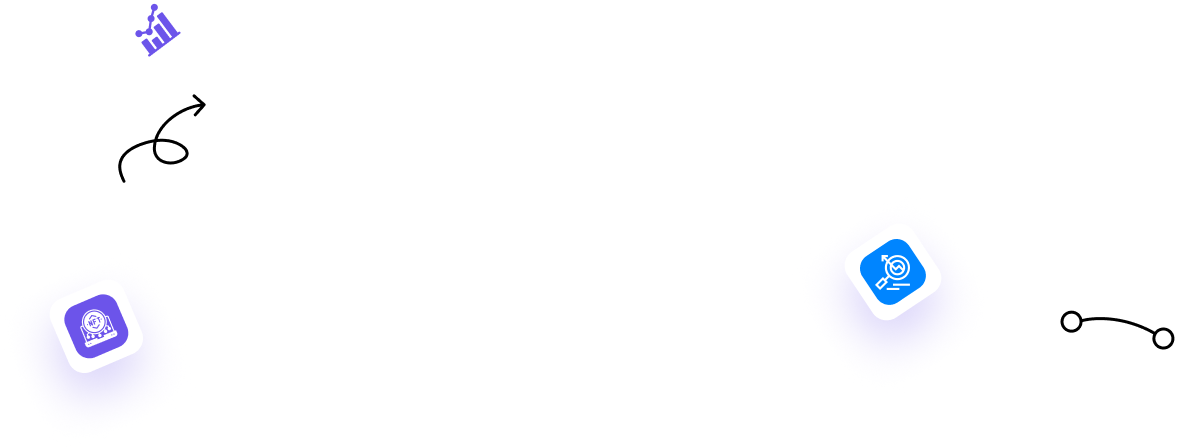
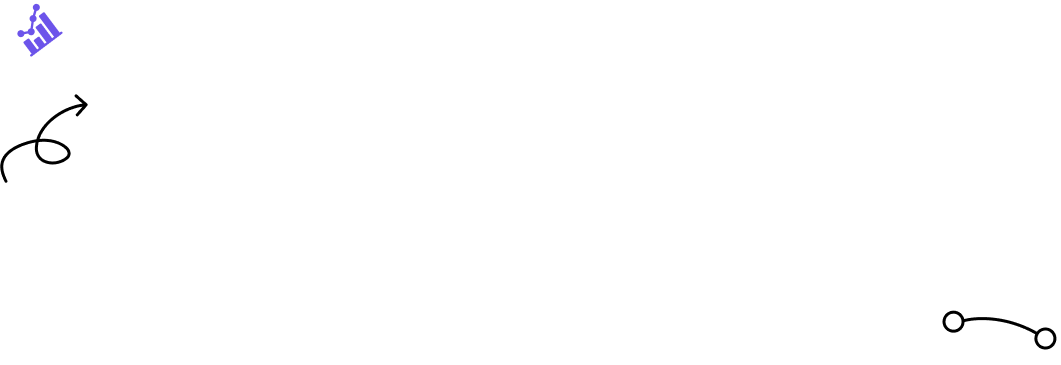
animation add some page

diff --git a/styles/section/_global-style.scss b/styles/section/_global-style.scss
@@ -358,6 +358,37 @@
         display: grid;
         justify-content: center;
         align-items: center;
+        position: relative;
+    }
+    img.sm-an1 {
+        position: absolute;
+        left: 30%;
+        bottom: -10%;
+        width: auto !important;
+        animation: sm-an1 1s linear 2s infinite alternate;
+    }
+    @keyframes sm-an1 {
+        0% {
+            transform: translateY(0);
+        }
+        100% {
+            transform: translateY(10px);
+        }
+    }
+    img.sm-an2 {
+        width: auto !important;
+        position: absolute;
+        right: 10%;
+        top: 20%;
+        animation: sm-an2 1s linear 2s infinite alternate;
+    }
+    @keyframes sm-an2 {
+        0% {
+            transform: translateX(0);
+        }
+        100% {
+            transform: translateX(10px);
+        }
     }
     .hero-img img {
         width: 100%;
@@ -462,13 +493,9 @@
         gap: 24px;
     }
     .hero-img {
-        background-size: cover;
-        display: flex;
         width: 100%;
         height: 100%;
-        max-width: 779px;
         position: relative;
-        justify-self: flex-end;
     }
     .hero-bg {
         width: 100%;
@@ -609,34 +636,60 @@
     .experts div img:nth-child(3) {
         animation: appear3 1s;
     }
-    @keyframes appear1 {
+    img.contract1 {
+        position: absolute;
+        top: 11%;
+        left: 8%;
+        animation: contract1 1s linear 2s infinite alternate;
+    }
+    @keyframes contract1 {
         0% {
-            opacity: 0;
+            transform: rotate(0deg);
         }
         100% {
-            opacity: 1;
+            transform: rotate(75deg);
         }
     }
-    @keyframes appear2 {
+    img.contract2 {
+        position: absolute;
+        top: 5%;
+        left: 36%;
+        animation: contract2 1s linear 2s infinite alternate;
+    }
+    @keyframes contract2 {
         0% {
-            opacity: 0;
-        }
-        20% {
-            opacity: 0;
+            transform: translateY(0);
         }
         100% {
-            opacity: 1;
+            transform: translateY(20px);
         }
     }
-    @keyframes appear3 {
+    img.contract3 {
+        right: 3%;
+        position: absolute;
+        top: 7%;
+        animation: contract3 1s linear 2s infinite alternate;
+    }
+    @keyframes contract3 {
         0% {
-            opacity: 0;
-        }
-        40% {
-            opacity: 0;
+            transform: translateY(20px);
         }
         100% {
-            opacity: 1;
+            transform: translateY(0px);
+        }
+    }
+    img.contract4 {
+        position: absolute;
+        top: 60%;
+        left: 22%;
+        animation: contract4 1s linear 2s infinite alternate;
+    }
+    @keyframes contract4 {
+        0% {
+            transform: translateY(20px);
+        }
+        100% {
+            transform: translateY(0px);
         }
     }
     .hero-content {
@@ -1270,41 +1323,44 @@
         bottom: 0px;
         animation: decor-4 1s;
     }
-    .decor-5 {
-        position: absolute;
-        bottom: 0px;
-        right: 0px;
-        width: 100%;
-        animation: decor-5 1s;
-    }
-    .decor-6 {
-        position: absolute;
-        width: 83px;
-        height: 83px;
-        bottom: 80px;
-        left: -150px;
-        animation: decor-6 1.5s ease 0s infinite;
-    }
+    // .decor-5 {
+    //     position: absolute;
+    //     bottom: 0px;
+    //     right: 0px;
+    //     width: 100%;
+    //     animation: decor-5 1s;
+    // }
+    // .decor-6 {
+    //     position: absolute;
+    //     width: 83px;
+    //     height: 83px;
+    //     bottom: 80px;
+    //     left: -150px;
+    //     animation: decor-6 1.5s ease 0s infinite;
+    // }
     .hero-img img {
         width: 100%;
     }
-    @keyframes decor-4 {
-        0% {
-            opacity: 0;
-        }
-        100% {
-            opacity: 2;
-        }
+    img.hero-1 {
+        position: absolute;
+        bottom: 14%;
+        left: 15%;
+        width: 150px !important;
+        animation: decor-6 1.5s ease 0s infinite;
+    }
+    img.hero-2 {
+        position: absolute;
+        right: 4%;
+        width: 150px !important;
+        top: 30%;
+        animation: decor-5 1s linear 2s infinite alternate;
     }
     @keyframes decor-5 {
         0% {
-            opacity: 0;
-        }
-        30% {
-            opacity: 0;
+            transform: translateY(20px);
         }
         100% {
-            opacity: 2;
+            transform: translateY(0px);
         }
     }
     @keyframes decor-6 {
@@ -1436,10 +1492,6 @@
         top: 70%;
     }
     .decor-balls img:nth-child(2) {
-        left: 55%;
-        top: 20%;
-    }
-    .decor-balls img:nth-child(3) {
         right: 0px;
     }
     .hero-content {
@@ -1517,13 +1569,14 @@
     .charts-container {
         position: absolute;
         display: flex;
+        grid-gap: 13px;
         gap: 13px;
         padding: 23px 27px;
         background: #ffffff;
-        box-shadow: 0px 11px 39px rgba(0, 0, 0, 0.07);
+        box-shadow: 0px 11px 39px rgb(0 0 0 / 7%);
         border-radius: 17px;
-        right: 20%;
-        margin-top: -130px;
+        right: 5%;
+        top: 25%;
     }
     .chart {
         background: #eeeeee;
@@ -1593,15 +1646,25 @@
     }
     .decor-4 {
         position: absolute;
-        margin-top: 200px;
-        margin-left: 52px;
+        margin-left: -7%;
+        bottom: -2%;
+        animation: tk 1s linear 2s infinite alternate;
+        transition: 0.3s;
+    }
+    @keyframes tk {
+        0% {
+            transform: translateY(0);
+        }
+        100% {
+            transform: translateY(20px);
+        }
     }
     h1 {
         font-family: "Urbanist";
         font-style: normal;
         font-weight: 800;
-        font-size: 80px;
-        line-height: 90px;
+        font-size: 55px;
+        line-height: 130%;
         letter-spacing: -0.5px;
         color: #061237;
     }
@@ -1777,6 +1840,20 @@
             opacity: 1;
         }
     }
+    img.decor-2 {
+        width: 150px !important;
+        position: absolute;
+        right: 12%;
+        bottom: 10%;
+        animation: decor-6 1.5s ease 0s infinite;
+    }
+    img.decor-3 {
+        position: absolute;
+        left: 5%;
+        width: 150px !important;
+        bottom: 5%;
+        animation: decor-5 1s linear 2s infinite alternate;
+    }
     .decor-1 {
         position: absolute;
         left: 0;
@@ -1868,8 +1945,7 @@
         background: #ffffff;
         box-shadow: 0px 11px 39px rgba(0, 0, 0, 0.07);
         border-radius: 17px;
-        right: 32%;
-        margin-top: -130px;
+        right: 20%;
     }
     .chart {
         background: #eeeeee;

diff --git a/pages/smart-contract.js b/pages/smart-contract.js
@@ -41,10 +41,14 @@ function SmartContract() {
 
             <div className="hero-img">
               <img
-                src="assets/img/inner/smart-contract.gif"
+                src="assets/img/hero/smart-contract-dev.png"
                 alt=""
                 className="hero-bg"
               />
+              <img src="assets/img/hero/5.png" alt="" className="contract1" />
+              <img src="assets/img/hero/6.png" alt="" className="contract2" />
+              <img src="assets/img/hero/7.png" alt="" className="contract3" />
+              <img src="assets/img/hero/8.png" alt="" className="contract4" />
             </div>
           </section>
         </div>

diff --git a/pages/_app.js b/pages/_app.js
@@ -11,11 +11,15 @@ import Head from "next/head";
 import { Fragment, useEffect } from "react";
 function MyApp({ Component, pageProps }) {
   const title = Component.title || "NFT - Full Stack Web Development Services";
+  const description =
+    Component.description ||
+    "NFT - Full Stack Web Development Services by NFT Constractor";
   const Layout = Component.layout || Fragment;
   return (
     <>
       <Head>
         <title>{title}</title>
+        <meta name="description" content={description}></meta>
       </Head>
       <Layout>
         <Component {...pageProps} />;

diff --git a/pages/website-design.js b/pages/website-design.js
@@ -40,11 +40,10 @@ function Coin() {
             </div>
 
             <div className="hero-img">
-              <img
-                src="assets/img/inner/website-design.gif"
-                alt=""
-                className="he"
-              />
+              <img src="assets/img/hero/hero3.png" alt="" className="he" />
+
+              <img src="assets/img/hero/1.png" alt="" className="hero-1" />
+              <img src="assets/img/hero/2.png" alt="" className="hero-2" />
             </div>
           </section>
         </div>

diff --git a/pages/smart-contract-analysis.js b/pages/smart-contract-analysis.js
@@ -40,7 +40,9 @@ function Business() {
             </div>
 
             <div className="hero-img">
-              <img src="assets/imgs/hreo-img.png" alt="Hero IMG" />
+              <img src="assets/img/hero/website-analysis.png" alt="Hero IMG" />
+              <img src="assets/img/hero/9.png" alt="" className="sm-an1" />
+              <img src="assets/img/hero/10.png" alt="" className="sm-an2" />
             </div>
           </section>
         </div>

diff --git a/pages/website-analysis.js b/pages/website-analysis.js
@@ -19,6 +19,8 @@ function Analysis() {
           <section className="hero">
             <div className="decor-1">
               <img src="assets/imgs/decor-1.png" alt="" />
+              <img src="assets/img/hero/3.png" alt="" className="decor-2" />
+              <img src="assets/img/hero/4.png" alt="" className="decor-3" />
             </div>
             <div className="hero-content">
               <h1>

diff --git a/pages/nft-website-development.js b/pages/nft-website-development.js
@@ -11,7 +11,6 @@ function HiCoin() {
       <div id="hiCoin" className="cpy-5">
         <div className="decor-balls">
           <img src="assets/imgs/decor-ball-1.svg" alt="" />
-          <img src="assets/imgs/decor-ball-2.svg" alt="" />
           <img src="assets/imgs/decor-ball-3.svg" alt="" />
         </div>
         <div className="container">

diff --git a/styles/Layout.css b/styles/Layout.css
@@ -58,7 +58,7 @@ ul.social-ul {
     background: var(--white-color);
     border-radius: 6px;
     right: 0;
-    transform: translatey(31px);
+    transform: translateY(31px);
     transition: 0.3s;
     opacity: 0;
     visibility: hidden;

diff --git a/pages/index.js b/pages/index.js
@@ -1010,6 +1010,7 @@ function Home() {
 }
 
 Home.title = "Full Stack Web Development Services";
+Home.description = "Meta Description";
 Home.layout = AppLayout;
 
 const table = [
